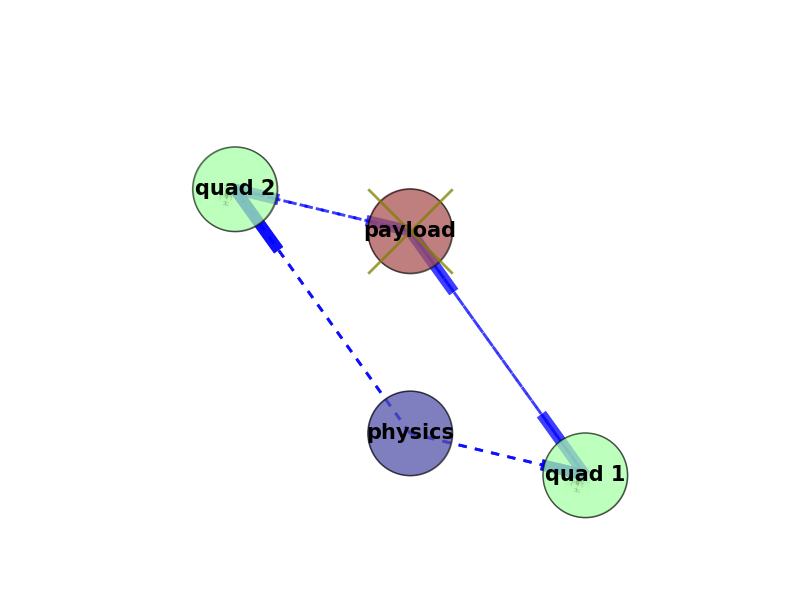
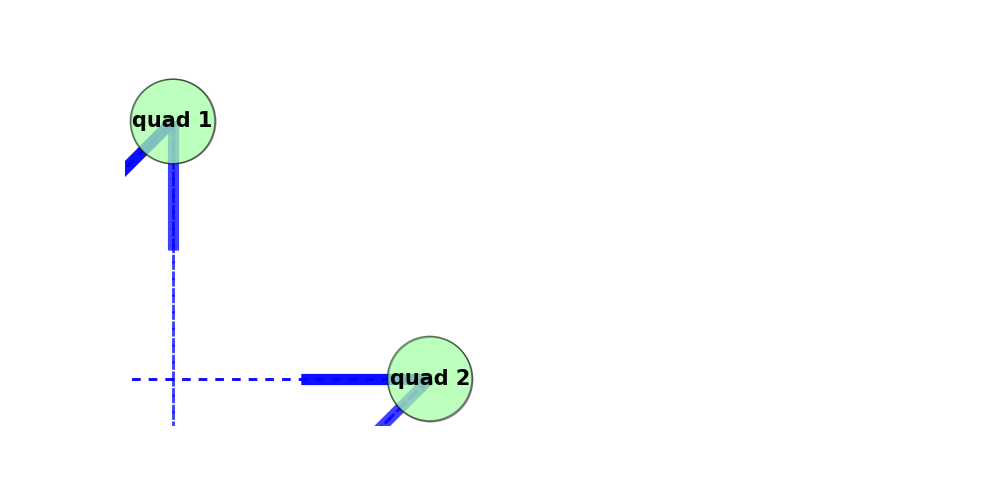
upd

diff --git a/pyCode/pyTesting_xml_to_nexX.py b/pyCode/pyTesting_xml_to_nexX.py
@@ -2,6 +2,13 @@
 # and : http://www.pyimagesearch.com/2014/11/03/display-matplotlib-rgb-image/
 # and : https://networkx.github.io/documentation/networkx-1.10/reference/generated/networkx.readwrite.json_graph.node_link_data.html#networkx.readwrite.json_graph.node_link_data
 
+# matplotlib reffs:
+#   http://www.developersite.org/101-55137-python
+# https://python.g-node.org/python-summerschool-2013/_media/wiki/datavis/matplotlib_tutorial.html
+# https://matplotlib.org/api/collections_api.html
+
+
+
 import matplotlib.image as mpimg
 import numpy as np
 from PIL import Image
@@ -92,11 +99,15 @@ print listImgs
 
 # drawing by : https://networkx.github.io/documentation/networkx-1.10/reference/drawing.html
 
-fig = plt.figure()
-ax = fig.add_subplot(1, 1, 1)
+fig = plt.figure(figsize=(10,5))
+ax = fig.add_subplot(1, 2, 1)   # lines, columns, current axes
 
 # pos=nx.spring_layout(G) # positions for all nodes
-pos=nx.spectral_layout(G) # positions for all nodes
+pos = nx.spectral_layout(G) # positions for all nodes
+pos = nx.shell_layout(G)
+pos = nx.circular_layout(G)
+# pos = nx.random_layout(G)
+# pos = nx.fruchterman_reingold_layout(G)
 
 node_circle_size=3700   # unknown units
 for node in listOfNodes:
@@ -122,7 +133,7 @@ nodesColrsDict = {'physics':0.0,
                   'payload':1.0 }
 colorValues = [nodesColrsDict.get(node, 0.25) for node in listOfNodes]
 # repeat to get axis re-scaled
-plotedNodes = nx.draw_networkx_nodes(G,pos,nodelist=listOfNodes, node_size=node_circle_size, node_shape='o',alpha=0.5, node_color=colorValues)
+plotedNodes = nx.draw_networkx_nodes(G,pos,nodelist=listOfNodes, node_size=node_circle_size, node_shape='o',alpha=0.5, node_color=colorValues) # PathCollection type returned
 
 # search string from text search:
 searchTxt = 'payload'
@@ -182,8 +193,9 @@ plt.savefig("system_graph.png") # save as png
 ''''''
 # drawing by : https://networkx.github.io/documentation/networkx-1.10/reference/drawing.html
 
-fig = plt.figure()
-ax = fig.add_subplot(1, 1, 1)
+# fig = plt.figure(figsize=(3, 2))
+ax = fig.add_subplot(1, 2, 2)
+ax.autoscale()
 
 # pos_GwV=nx.spring_layout(G_wVirtualEdges) # positions for all nodes
 pos_GwV=nx.spectral_layout(G_wVirtualEdges) # positions for all nodes
@@ -301,31 +313,93 @@ def on_pick_Nodes(event):
     print event.artist
     print event.canvas.events
 
+def on_Edge_click(items):
+    print "*on_Edge_click*"
+    # todo: show the list of edges in GUI
+    for item in items:
+        print filledEdges[item]  # from the input that is creating the plotedEdges
+
+def on_Node_click(items, nodesColorsArray):
+    print "*on_Node_click*"
+    # todo: highlight the node circle and edges from it
+    # for item in items: print listOfNodes[item]
+    selectedNode  = str(listOfNodes[items])  # the input for creating the plotedNodes
+    nodeColorPrev = nodesColorsArray[items]
+
+    print ax.collections[0].properties()
+    print selectedNode
+
+    print G[selectedNode]               # dict type
+    print G.neighbors(selectedNode)     # list type
+    print G.predecessors(selectedNode)  # list type . includes inputs
+
+    # if isinstance(lastSelectedNode):
+    #     nx.draw_networkx_nodes(G,pos,nodelist=lastSelectedNode,node_size=node_circle_size, node_color="blue",node_shape='o',alpha=0.25) # ##ACCEPTS: [\/|- +xoO.* ]
+
+    # nodesColorsArray[[0,items]] = nodesColorsArray[[items,0]]
+    # nodeColor = nodesColorsArray[items]
+    # plotedNodes.set_facecolors(nodesColorsArray)
+    # nodesList = [str(listOfNodes[0]),str(listOfNodes[items])]
+    #
+    # fig = plt.gcf()
+    # nx.draw_networkx_nodes(G, pos, nodelist=nodesList, node_size=node_circle_size, node_color=nodesColorsArray,
+    #                        node_shape='o', alpha=0.75, linewidths=2.0)  # ##ACCEPTS: [\/|- +xoO.* ]
+
+    # http: // stackoverflow.com / questions / 22716161 / how - can - one - modify - the - outline - color - of - a - node - in -networkx
+    axCur = plt.gca()  # to get the current axis
+    axCur.collections[0].set_edgecolor("#FF0000")
+    axCur.collections[1].set_edgecolor("#FFFf00")
+    axCur.collections[2].set_edgecolor("#FFff00")  #self._edgecolors  is changed
+    axCur.collections[3].set_edgecolor("#FFffff")
+    axCur.collections[4].set_edgecolor("#FFffff")
+    # todo: can change seperatly the collections by the index item??
+
+
+    ##nx.draw(G, pos, node_color=range(len(pos)), node_size=800, cmap=plt.cm.Blues)
+    # cmap=plt.cm.jet
+    # lastSelectedNode = listOfNodes[items]
+
+def on_Node_dblClk(items):
+    print "*on_Node_Dbl_click*"
+    # todo: in separate window show the node circle and edges from it and to it with neighbours
+    for item in items:
+        print listOfNodes[item]  # the input for creating the plotedNodes
+
 def on_press(event):
+
+    print('button=%d, x=%d, y=%d, xdata=%f, ydata=%f' %
+          (event.button, event.x, event.y, event.xdata, event.ydata))
     # print "on press"
+    # if event.dblclick:
+    #     print("DBLCLICK", event) # in actual: includes also a heading 'down' event
+    # else:
+    #     print("DOWN    ", event)
     # print event.inaxes
     # fig.canvas.draw_idle()
     eventContainsEdges = plotedEdges.contains(event)
     print eventContainsEdges
     if (eventContainsEdges[0]):
-        print "pressed on selected edge"
+        # print "pressed on selected edge"
     #     open other window with the selected edges/nodes
         items = eventContainsEdges[1]['ind']
-        # for item in items:
-        #     print plotedEdges[item]
+        if ~event.dblclick:
+           on_Edge_click(items)
     else:
         eventContainsNodes = plotedNodes.contains(event)
         print eventContainsNodes
         if (eventContainsNodes[0]):
-            print "pressed on selected node"
+            # print "pressed on selected node"
             #     open other window with the selected edges/nodes
             items = eventContainsNodes[1]['ind']
-            # for item in items:
-            #     print plotedEdges[item]
+            nodesColors = plotedNodes.get_facecolors()  # result of ndArray type
+            if event.dblclick:
+                on_Node_dblClk(items, nodesColors)
+            else:
+                on_Node_click(items, nodesColors)
         else:
-            print("pressed on general item of the figure")
+            print("*pressed on general item of the figure*")
 
-    print "plot paths len"  , len(plotedEdges._paths)
+    # print "plot paths len"  , len(plotedEdges._paths)
     # print "plot paths len"  , len(plotedNodes._paths)
     pass
 def on_release(event):
@@ -339,24 +413,21 @@ def on_motion(event):
 
 # check plotedEdges._paths
 
-# def makeConnect(obj):
-#     'connect to all the events we need'
-#     obj.figure.canvas.mpl_connect('button_press_event'  , on_press)
-#     obj.figure.canvas.mpl_connect('button_release_event', on_release)
-#     obj.figure.canvas.mpl_connect('motion_notify_event' , on_motion)
-
 plotedEdges._picker=True
 plotedEdges.figure.canvas.mpl_connect('button_press_event', on_press)
-# plotedEdges.figure.canvas.mpl_connect('pick_event', on_pick_Edges)
+# plotedEdges.figure.canvas.mpl_connect('pick_event', on_pick_Edges)  ## button_release_event, motion_notify_event
 plotedNodes._picker=True
 plotedEdges.figure.canvas.mpl_connect('button_press_event', on_press)
 # plotedNodes.figure.canvas.mpl_connect('pick_event', on_pick_Nodes)
 
 
+fig = plt.gcf()
+plt.gca().text(0.5, 0.5, "Click on the canvas to test mouse events.",
+               ha="center", va="center")
+
 ###############################################
 
 # fig.canvas.mpl_connect('button_press_event', on_press)
-
 # for obj in plotedEdges:
 #     makeConnect(obj)
 
@@ -365,6 +436,8 @@ ax.set_ylim([0, 1000+node_circle_size/10.])
 # ax.autoscale(True) #?
 ax.set_xlabel("x axis")
 ax.set_ylabel("y axis")
+
+ax.autoscale()
 
 # plt.savefig("weighted_graph_imgs.png") # save as png
 plt.show()          # stop point. plots all delivered so far to plt.__ or nx.draw(..).
